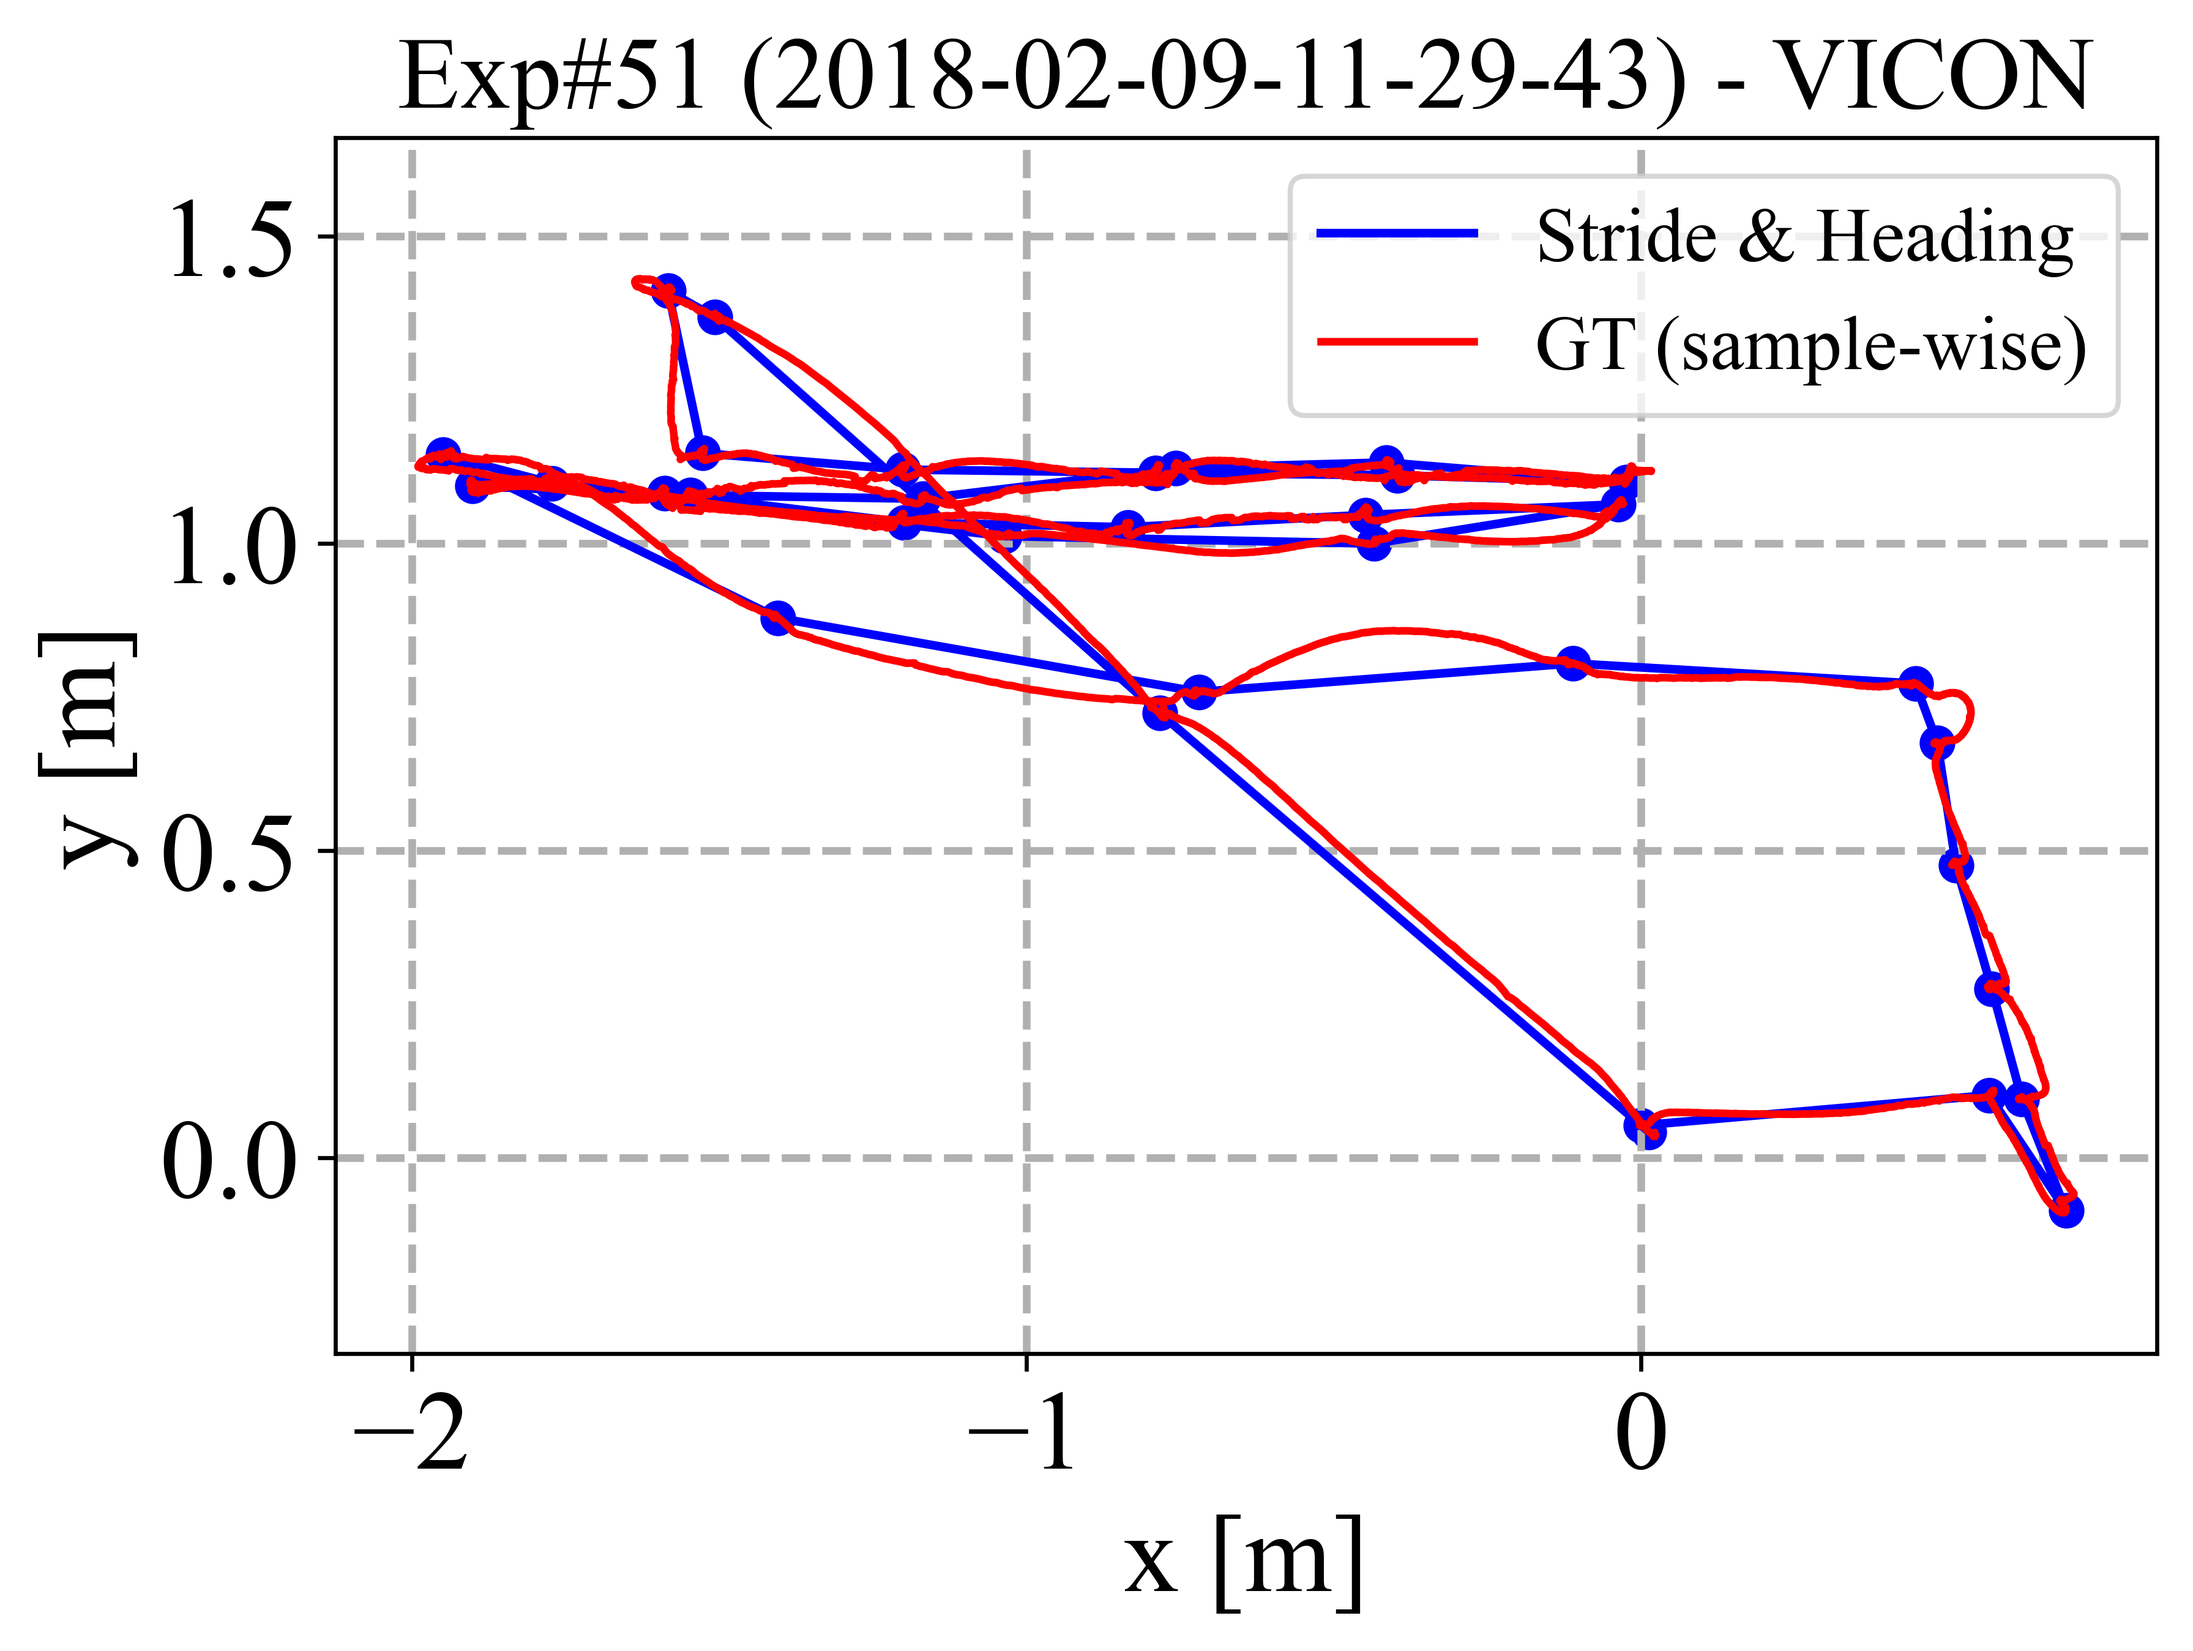
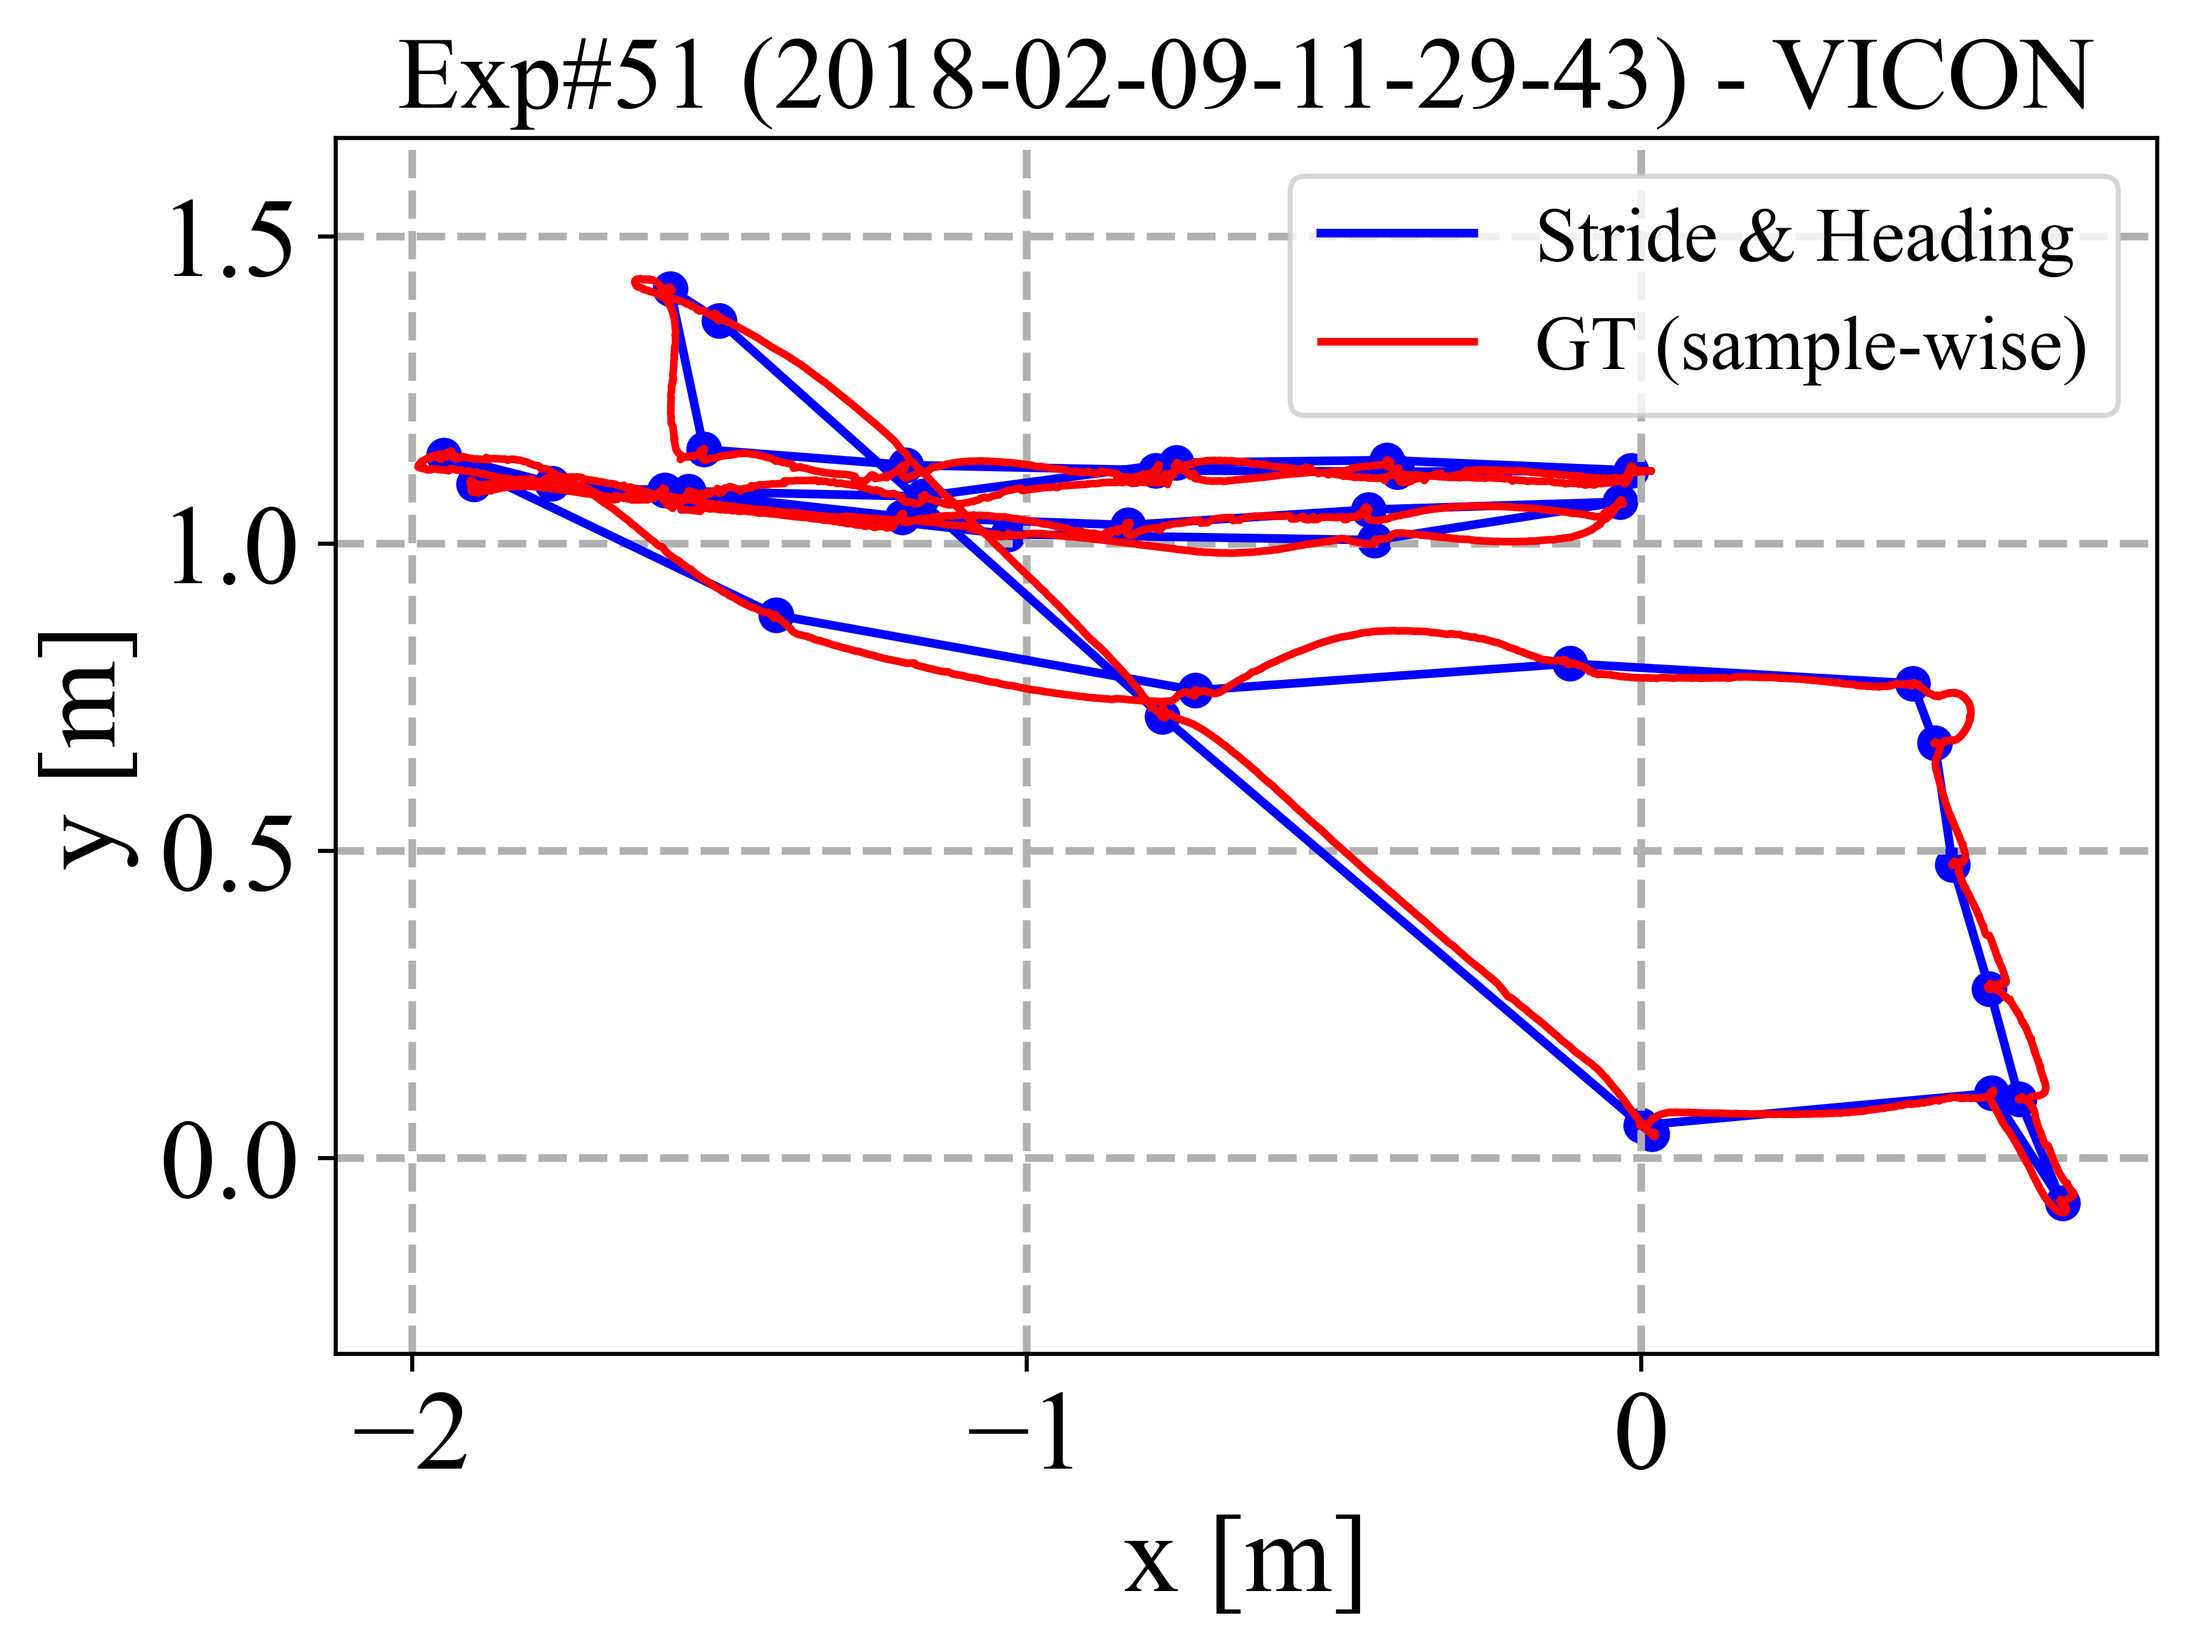
target data extraction lines are written

diff --git a/vicon_bipedal_locomotion_data_correction.py b/vicon_bipedal_locomotion_data_correction.py
@@ -29,13 +29,14 @@ detector = ['shoe', 'ared', 'shoe', 'shoe', 'shoe', 'ared', 'shoe', 'shoe',
             'shoe', 'vicon', 'vicon', 'shoe', 'shoe', 'shoe', 'shoe', 'ared',
             'shoe', 'shoe', 'ared', 'shoe', 'shoe', 'shoe', 'ared', 'shoe',
             'shoe', 'ared', 'vicon', 'shoe', 'vicon', 'shoe', 'shoe', 'vicon']
+# corresponding thresholds are changed (#16 and #51)
 thresh = [2750000, 0.1, 6250000, 15000000, 5500000, 0.08, 3000000, 3250000,
-          0.02, 97500000, 20000000, 0.0825, 0.1, 30000000, 0.0625, 0.225,
+          0.02, 97500000, 20000000, 0.0825, 0.1, 30000000, 0.0625, 0.1250,
           92500000, 9000000, 0.015, 0.05, 3250000, 4500000, 0.1, 100000000,
           0.0725, 100000000, 15000000, 250000000, 0.0875, 0.0825, 0.0925, 70000000,
           525000000, 0.4, 0.375, 150000000, 175000000, 70000000, 27500000, 1.1,
           12500000, 65000000, 0.725, 67500000, 300000000, 650000000, 1, 4250000,
-          725000, 0.0175, 0.125, 42500000, 0.0675, 9750000, 3500000, 0.175]
+          725000, 0.0175, 0.0225, 42500000, 0.0675, 9750000, 3500000, 0.175]
 
 # Function to calculate displacement and heading change between stride points
 def calculate_displacement_and_heading(gt, strideIndex):
@@ -67,12 +68,48 @@ def reconstruct_trajectory(displacements, heading_changes, initial_position):
     trajectory[:, 0] = -trajectory[:, 0] # change made by mtahakoroglu to match with GT alignment
     return trajectory
 
+# this function is used in stride detection
+def count_zero_to_one_transitions(arr):
+    # Ensure the array is a NumPy array
+    arr = np.asarray(arr)
+    
+    # Find the locations where transitions from 0 to 1 occur
+    transitions = np.where((arr[:-1] == 0) & (arr[1:] == 1))[0]
+    
+    # Return the count and the indexes
+    return len(transitions), transitions + 1  # Add 1 to get the index of the '1'
+
+# Function to count one-to-zero transitions to determine stride indexes
+def count_one_to_zero_transitions(zv):
+    strides = np.where(np.diff(zv) < 0)[0] + 1
+    return len(strides), strides
+
+# elimination of incorrect stride detections in raw zv_opt
+def heuristic_zv_filter_and_stride_detector(zv, k):
+    if zv.dtype == 'bool':
+        zv = zv.astype(int)
+    zv[:50] = 1 # make sure all labels are zero at the beginning as the foot is stationary
+    # detect strides (falling edge of zv binary signal) and respective indexes
+    n, strideIndexFall = count_one_to_zero_transitions(zv)
+    strideIndexFall = strideIndexFall - 1 # make all stride indexes the last samples of the respective ZUPT phase
+    strideIndexFall = np.append(strideIndexFall, len(zv)-1) # last sample is the last stride index
+    # detect rising edge indexes of zv labels
+    n2, strideIndexRise = count_zero_to_one_transitions(zv)
+    for i in range(len(strideIndexRise)):
+        if (strideIndexRise[i] - strideIndexFall[i] < k):
+            zv[strideIndexFall[i]:strideIndexRise[i]] = 1 # make all samples in between one
+    # after the correction is completed, do the stride index detection process again
+    n, strideIndexFall = count_one_to_zero_transitions(zv)
+    strideIndexFall = strideIndexFall - 1 # make all stride indexes the last samples of the respective ZUPT phase
+    strideIndexFall = np.append(strideIndexFall, len(zv)-1) # last sample is the last stride index
+    return zv, n, strideIndexFall
+
 i = 0  # experiment index
-# training_data_tag = [1]*5
-# training_data_tag.append(1)
-training_data_tag = [1, 1, 1, -1, 1, -1, 1, 1, 1, 1, -1, 1, 0, 1, 1, 1, 1, -1, 1, 1, 
-                    1, 1, 1, 1, 1, 1, -1, 1, 1, -1, 1, -1, 1, 1, 1, -1, 1, -1, 1, 1, 
-                    1, 1, -1, 1, 1, 1, 0, 0, -1, 0, 1, 1, 1, 1, 0, 1]
+training_data_tag = [0]*50
+training_data_tag.append(1)
+# training_data_tag = [1, 1, 1, -1, 1, -1, 1, 1, 1, 1, -1, 1, 0, 1, 1, 1, 1, -1, 1, 1, 
+#                     1, 1, 1, 1, 1, 1, -1, 1, 1, -1, 1, -1, 1, 1, 1, -1, 1, -1, 1, 1, 
+#                     1, 1, -1, 1, 1, 1, 0, 0, -1, 0, 1, 1, 1, 1, 0, 1]
 corrected_data_index = [4, 6, 11, 18, 27, 30, 32, 36, 38, 43, 49] # corrected experiment indexes
 nGT = [22, 21, 21, 18, 26, 24, 18, 20, 28, 35, 29, 22, 30, 34, 24, 36, 20, 15, 10, 33, 
        22, 19, 13, 16, 17, 21, 20, 28, 18, 12, 13, 26, 34, 25, 24, 24, 43, 42, 15, 12, 

diff --git a/ins_tools/util.py b/ins_tools/util.py
@@ -315,37 +315,38 @@ def median_filter(x, k):
         y[-j:,-(i+1)] = x[-1]
     return np.median (y, axis=1)
 
-# this function is no more used for stride detection
-def count_zero_to_one_transitions(arr):
-    # Ensure the array is a NumPy array
-    arr = np.asarray(arr)
+# # this function is used in stride detection
+# def count_zero_to_one_transitions(arr):
+#     # Ensure the array is a NumPy array
+#     arr = np.asarray(arr)
     
-    # Find the locations where transitions from 0 to 1 occur
-    transitions = np.where((arr[:-1] == 0) & (arr[1:] == 1))[0]
+#     # Find the locations where transitions from 0 to 1 occur
+#     transitions = np.where((arr[:-1] == 0) & (arr[1:] == 1))[0]
     
-    # Return the count and the indexes
-    return len(transitions), transitions + 1  # Add 1 to get the index of the '1'
+#     # Return the count and the indexes
+#     return len(transitions), transitions + 1  # Add 1 to get the index of the '1'
 
-# Function to count one-to-zero transitions to detemine stride indexes
-def count_one_to_zero_transitions(zv):
-    strides = np.where(np.diff(zv) < 0)[0] + 1
-    return len(strides), strides
+# # Function to count one-to-zero transitions to determine stride indexes
+# def count_one_to_zero_transitions(zv):
+#     strides = np.where(np.diff(zv) < 0)[0] + 1
+#     return len(strides), strides
 
-def heuristic_zv_filter_and_stride_detector(zv, k):
-    if zv.dtype == 'bool':
-        zv = zv.astype(int)
-    zv[:50] = 1 # make sure all labels are zero at the beginning as the foot is stationary
-    # detect strides (falling edge of zv binary signal) and respective indexes
-    n, strideIndexFall = count_one_to_zero_transitions(zv)
-    strideIndexFall = strideIndexFall - 1 # make all stride indexes the last samples of the respective ZUPT phase
-    strideIndexFall = np.append(strideIndexFall, len(zv)-1) # last sample is the last stride index
-    # detect rising edge indexes of zv labels
-    n2, strideIndexRise = count_zero_to_one_transitions(zv)
-    for i in range(len(strideIndexRise)):
-        if (strideIndexRise[i] - strideIndexFall[i] < k):
-            zv[strideIndexFall[i]:strideIndexRise[i]] = 1 # make all samples in between one
-    # after the correction is completed, do the stride index detection process again
-    n, strideIndexFall = count_one_to_zero_transitions(zv)
-    strideIndexFall = strideIndexFall - 1 # make all stride indexes the last samples of the respective ZUPT phase
-    strideIndexFall = np.append(strideIndexFall, len(zv)-1) # last sample is the last stride index
-    return zv, n, strideIndexFall
+# # elimination of incorrect stride detections in raw zv_opt
+# def heuristic_zv_filter_and_stride_detector(zv, k):
+#     if zv.dtype == 'bool':
+#         zv = zv.astype(int)
+#     zv[:50] = 1 # make sure all labels are zero at the beginning as the foot is stationary
+#     # detect strides (falling edge of zv binary signal) and respective indexes
+#     n, strideIndexFall = count_one_to_zero_transitions(zv)
+#     strideIndexFall = strideIndexFall - 1 # make all stride indexes the last samples of the respective ZUPT phase
+#     strideIndexFall = np.append(strideIndexFall, len(zv)-1) # last sample is the last stride index
+#     # detect rising edge indexes of zv labels
+#     n2, strideIndexRise = count_zero_to_one_transitions(zv)
+#     for i in range(len(strideIndexRise)):
+#         if (strideIndexRise[i] - strideIndexFall[i] < k):
+#             zv[strideIndexFall[i]:strideIndexRise[i]] = 1 # make all samples in between one
+#     # after the correction is completed, do the stride index detection process again
+#     n, strideIndexFall = count_one_to_zero_transitions(zv)
+#     strideIndexFall = strideIndexFall - 1 # make all stride indexes the last samples of the respective ZUPT phase
+#     strideIndexFall = np.append(strideIndexFall, len(zv)-1) # last sample is the last stride index
+#     return zv, n, strideIndexFall
